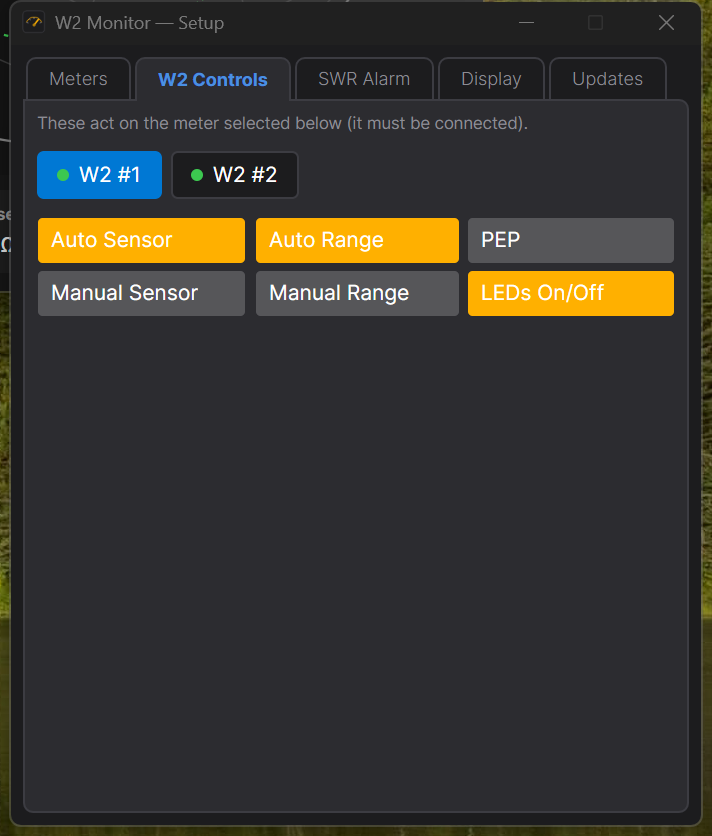
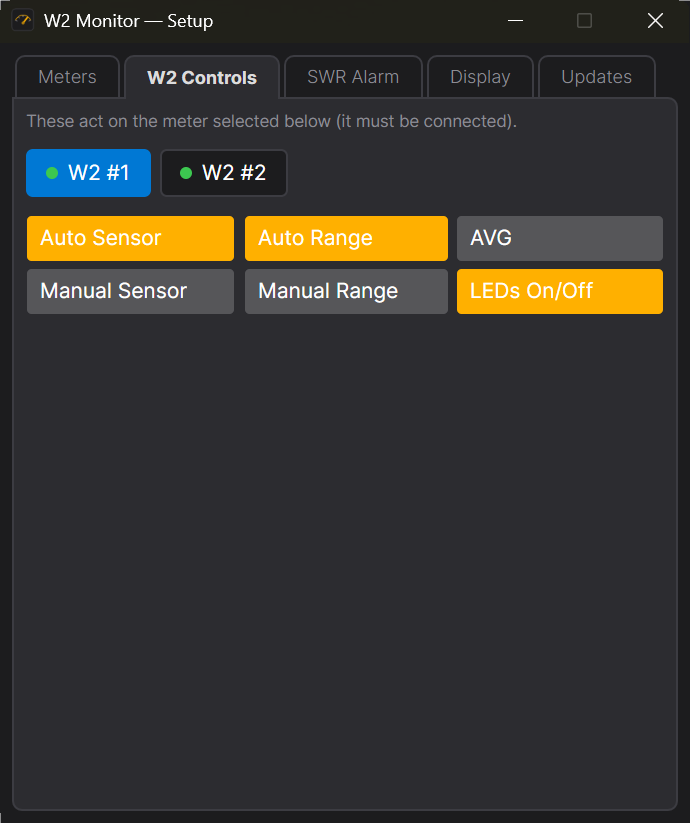
Recapture the Windows screenshots without desktop bleeding into them
All four carried a band of wallpaper around the window. Two causes, both Windows-specific: DWM's
extended frame bounds sit about two pixels outside what the window actually paints, and Win11's
rounded corners let the desktop through the four arcs. Measuring the top-left corner showed the top
two rows were desktop across the full width, with a one-to-two pixel band down the side. The capture
now crops that inset and composites through a rounded-rect clip filled with the app's own background,
so the corners are #1C1C1E instead of whatever happens to be on the desktop. Verified by scanning the
outer frame for foreign pixels rather than by eye.

Retaken on real hardware against both W2s, in single-window mode so the lead image is the auto-focus
view a one-meter user sees, headed W2 MONITOR. transmitting.png is a real dummy-load over: 50.7 W,
SWR 1.16, auto-ranged to 200 W, cyan peak marker riding the fill. main.png is the at-rest state after
a restart, so no stale timer or held peak invites the wrong question. The frame was picked by
measuring bar fill across a 26-frame burst — the first attempt found none, because the bar is bound
to the theme accent rather than to the palette blue I was matching.

Dropped linux-display.png and its section. It was not merely old but wrong: it showed the pre-0.7.1
Display tab, with the TX timeout stranded at the foot of the tab away from the checkbox governing
[…]

Changed region(s): [[0.0, 0.0, 1.0, 1.0], [0.8217, 0.0, 0.8826, 0.0304], [0.7304, 0.0, 0.7609, 0.0304]]

diff --git a/README.md b/README.md
@@ -55,7 +55,7 @@ than by whichever COM port Windows handed out this week:
 The W2 Controls tab. The meter picker at the top is the same selection as the Meters tab — pick a
 meter in either place and both follow, so there's never a doubt about which W2 a button is about to
 act on. Lit buttons show the meter's current state: here W2 #1 has Auto Sensor, Auto Range and its
-sampler LEDs on, and is in PEP rather than average:
+sampler LEDs on, and the Avg/PEP button reads its current mode — average:
 
 ![The W2 Controls tab](docs/controls.png)
 
@@ -71,13 +71,6 @@ The SWR alarm firing. Past the trip point the SWR bar turns red and the alarm re
 line — the same condition that drives the W2's rear-panel keyline-disconnect relay:
 
 ![The SWR alarm firing](docs/linux-alarm.png)
-
-The Display tab. Peak reset acts on the meter picked here, which is the same selection the Meters and
-W2 Controls tabs use, so it can't disagree with them. "Reset all peaks" appears once a second meter
-is configured, because with a single window the peak reported is the highest across every connected
-meter:
-
-![The Display tab](docs/linux-display.png)
 
 ## Install
 
